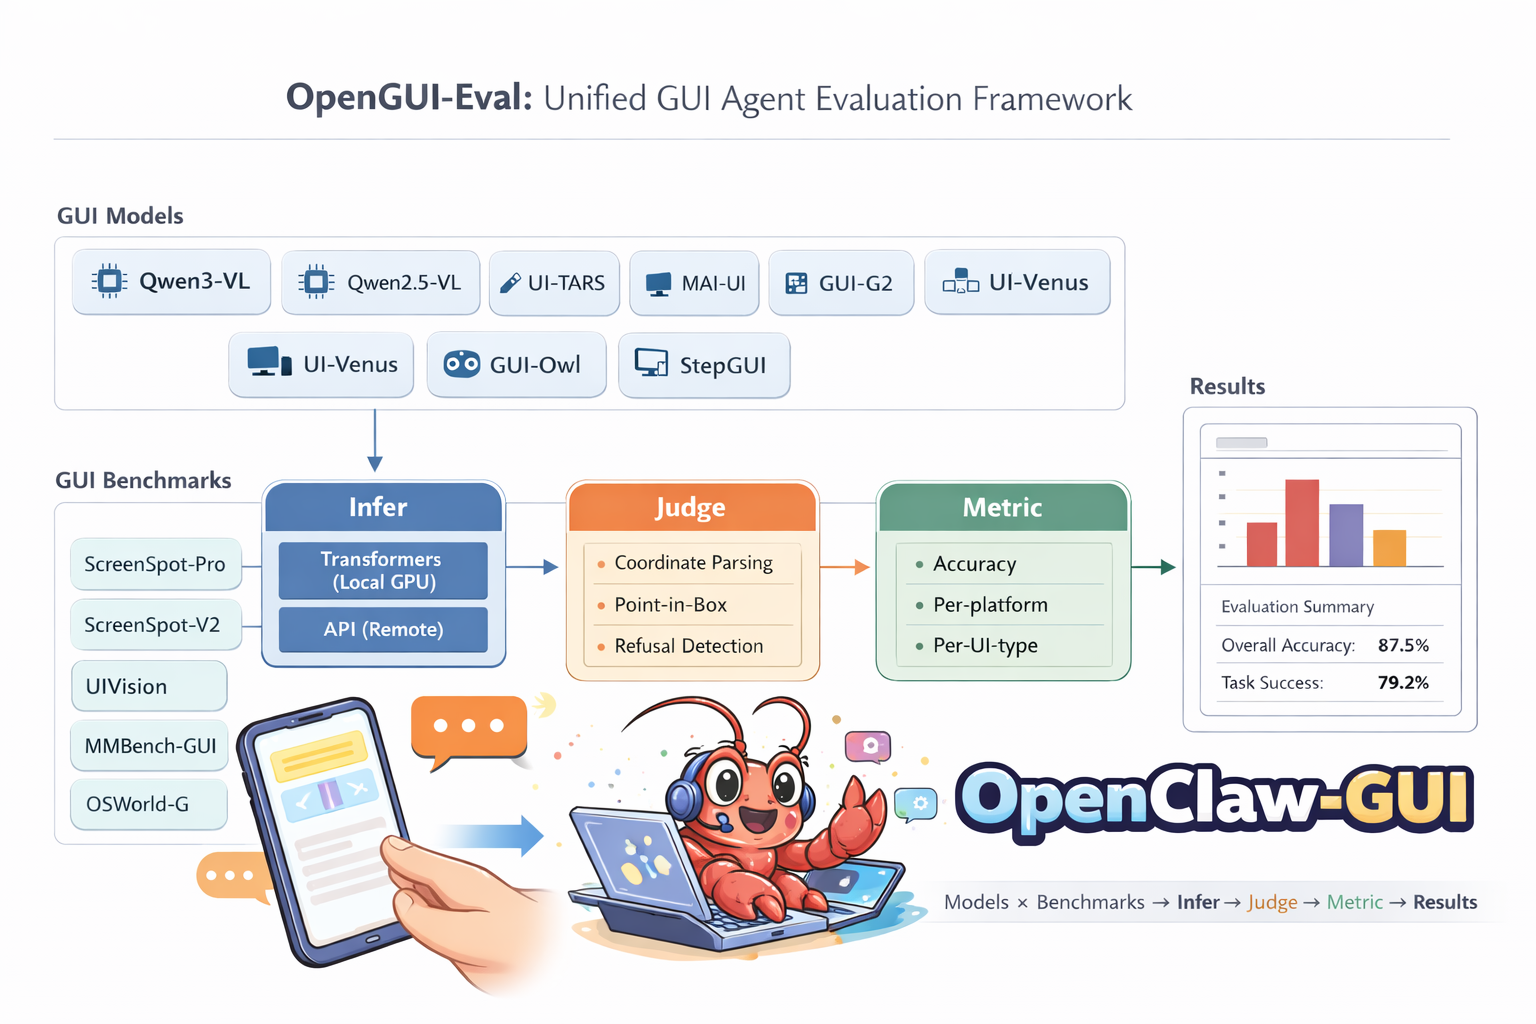
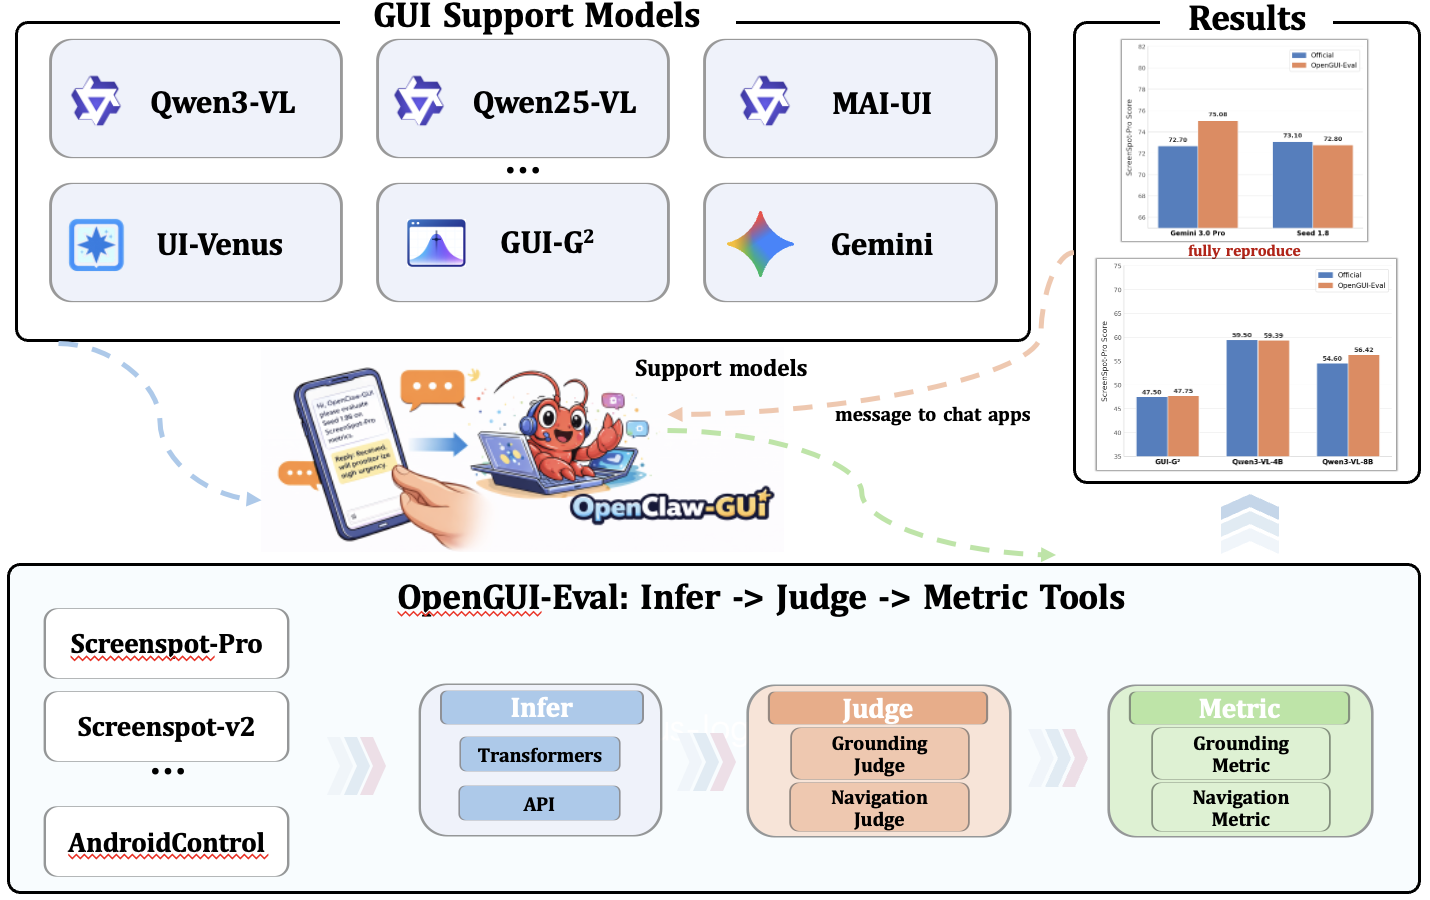
docs(opengui-eval): README Gemini/Seed inferencers, models, repro table; refresh assets
Made-with: Cursor

diff --git a/opengui-eval/README.md b/opengui-eval/README.md
@@ -41,7 +41,7 @@
 ✨ **Key Features:**
 - 🔌 **Dual backend support** — Local GPU via `transformers` or remote API via OpenAI-compatible endpoints
 - 📊 **6 benchmarks** — ScreenSpot-Pro, ScreenSpot-V2, UIVision, MMBench-GUI, OSWorld-G, AndroidControl
-- 🤖 **9+ models** — Qwen3-VL, Qwen2.5-VL, UI-TARS, MAI-UI, GUI-G2, UI-Venus, and more
+- 🤖 **11+ models** — Qwen3-VL, Qwen2.5-VL, UI-TARS, MAI-UI, GUI-G2, UI-Venus, Gemini, Seed 1.8, and more
 - ⚡ **Multi-GPU & multi-thread** — Parallel inference with automatic resume
 - 🧩 **Easily extensible** — Add new models by inheriting a simple base class
 - ✅ **Faithful reproduction** — Comprehensive reproduction results with detailed official vs. reproduced comparisons ([see details](#-reproduction-results))
@@ -147,7 +147,9 @@ opengui-eval/
 │   ├── guig2_inferencer.py              # GUI-G2
 │   ├── uitars_inferencer.py             # UI-TARS (extends Qwen2.5-VL)
 │   ├── uivenus15_inferencer.py          # UI-Venus 1.5 (extends Qwen3-VL)
-│   └── uivenus_inferencer.py            # UI-Venus (extends GUI-G2)
+│   ├── uivenus_inferencer.py            # UI-Venus (extends GUI-G2)
+│   ├── gemini_inferencer.py             # Gemini (API, optional Zoom)
+│   └── seed_inferencer.py               # Seed 1.8 (API, optional Zoom)
 ├── 📂 judge/                            # Judgment module
 │   ├── base_judge.py                    # Abstract base class
 │   ├── grounding_judge.py               # Point-in-box judge (most benchmarks)
@@ -185,10 +187,6 @@ opengui-eval/
 |:---------:|:--------------:|:-------------:|:--------:|:-----------:|:---------:|:--------------:|
 | Status    | ✅              | ✅             | ✅        | ✅           | ✅         | ✅              |
 
-### Models
-
-| Model Key | Model Name | Architecture | Coordinate System | Input Order | System Prompt | ScreenSpot-Pro | ScreenSpot-V2 | UIVision | MMBench-GUI | OSWorld-G | AndroidControl |
-|-----------|-----------|-------------|:-:|:-:|:-:|:-:|:-:|:-:|:-:|:-:|:-:|
 ### Open-Source Models
 
 | Model Key | Model Name | Architecture | Coordinate System | Input Order | System Prompt | ScreenSpot-Pro | ScreenSpot-V2 | UIVision | MMBench-GUI | OSWorld-G | AndroidControl |
@@ -202,6 +200,8 @@ opengui-eval/
 | `guig2` | GUI-G2 | Extends Qwen2.5-VL | `[0, 1000]` | `vt` | ❌ None | ✅ | ✅ | ✅ | ✅ | ✅ | ✅ |
 | `uivenus15` | UI-Venus 1.5 | Extends Qwen3-VL | `[0, 1000]` | `vt` | ❌ None | ✅ | ✅ | ✅ | ✅ | ✅ | ✅ |
 | `uivenus` | UI-Venus | Extends GUI-G2 | `[0, 1000]` | `vt` | ❌ None | ✅ | ✅ | ✅ | ✅ | ✅ | ✅ |
+| `gemini` | Gemini 3.x Pro | API (optional Zoom) | `[0, 1000]` | `vt` | ✅ Built-in | ✅ | - | - | - | - | - |
+| `seed` | Seed 1.8 | API (optional Zoom) | `[0, 1000]` | `vt` | ✅ Built-in | ✅ | - | - | - | - | - |
 
 ### Frontier / Closed-Source Models
 
@@ -209,7 +209,7 @@ We have also reproduced GUI grounding results for frontier models on ScreenSpot-
 
 | Model | Coordinate System | Zoom Paradigm | SS-Pro Official | SS-Pro Ours |
 |-------|:-:|:-:|:-:|:-:|
-| Gemini 3.1 Pro | `[0, 1000]` | ✅ | - | 85.01 |
+| Gemini 3.1 Pro | `[0, 1000]` | ✅ | N/A | 85.01 |
 | Gemini 3.0 Pro | `[0, 1000]` | ✅ | 72.70 | **75.08** ✅ |
 | Seed 1.8 | `[0, 1000]` | ✅ | 73.10 | **72.80** ✅ |
 
@@ -448,12 +448,11 @@ A key goal of OpenGUI-Eval is **faithful reproduction** of officially reported n
 | MAI-UI-2B | 57.40 | **57.94** ✅ | 92.50 | **92.30** ✅ | 30.30 | **29.68** ✅ | 82.60 | **82.80** ✅ | 52.00 | **59.80** ✅ |
 | MAI-UI-8B | 65.80 | 64.07 ❌ | 95.20 | **94.34** ✅ | 40.70 | **40.23** ✅ | 88.80 | **88.81** ✅ | 60.10 | **69.80** ✅ |
 | StepGUI-4B | 60.00 | **59.14** ✅ | 93.60 | 91.98 ❌ | - | 29.90 | 84.00 | **83.03** ✅ | 66.90 | 65.69 ❌ |
+| Gemini 3.0 Pro (Zoom, API) | 72.70 | **75.08** ✅ | - | - | - | - | - | - | - | - |
+| Gemini 3.1 Pro (Zoom, API) | - | **85.01** | - | - | - | - | - | - | - | - |
+| Seed 1.8 (Zoom, API) | 73.10 | **72.80** ✅ | - | - | - | - | - | - | - | - |
 
-**Reproduction Rate (Open-Source, GUI Grounding):** 39 / 44 cells with official baselines = **88.6%**
-
-**Reproduction Rate (Frontier Models, ScreenSpot-Pro):** 2 / 2 cells with official baselines = **100.0%**
-
-**Overall Reproduction Rate:** 41 / 46 = **89.1%**
+**Reproduction Rate (GUI Grounding, cells with official baselines):** Counting open-source rows plus Gemini 3.0 Pro & Seed 1.8 (ScreenSpot-Pro Zoom, API) where official numbers exist — **41 / 46 = 89.1%**
 
 > **Note on ScreenSpot-Pro & OSWorld-G gaps:** Some models show larger deviations on ScreenSpot-Pro (e.g., Qwen3-VL-2B, UI-TARS) and OSWorld-G. This is often due to differences in image preprocessing pipelines or evaluation configurations that are not fully documented in official releases. We are actively investigating and improving these reproductions.
 

diff --git a/opengui-eval/README_zh.md b/opengui-eval/README_zh.md
@@ -41,7 +41,7 @@
 ✨ **核心特性：**
 - 🔌 **双后端支持** — 本地 GPU 推理（`transformers`）或远程 API 调用（OpenAI 兼容接口）
 - 📊 **6 大 Benchmark** — ScreenSpot-Pro、ScreenSpot-V2、UIVision、MMBench-GUI、OSWorld-G、AndroidControl
-- 🤖 **9+ 模型** — Qwen3-VL、Qwen2.5-VL、UI-TARS、MAI-UI、GUI-G2、UI-Venus 等
+- 🤖 **11+ 模型** — Qwen3-VL、Qwen2.5-VL、UI-TARS、MAI-UI、GUI-G2、UI-Venus、Gemini、Seed 1.8 等
 - ⚡ **多 GPU & 多线程** — 并行推理，支持断点续推
 - 🧩 **易于扩展** — 继承基类即可添加新模型
 - ✅ **忠实复现** — 提供详细的官方 vs. 复现结果对比（[查看详情](#-复现结果)）
@@ -147,7 +147,9 @@ opengui-eval/
 │   ├── guig2_inferencer.py              # GUI-G2
 │   ├── uitars_inferencer.py             # UI-TARS（继承 Qwen2.5-VL）
 │   ├── uivenus15_inferencer.py          # UI-Venus 1.5（继承 Qwen3-VL）
-│   └── uivenus_inferencer.py            # UI-Venus（继承 GUI-G2）
+│   ├── uivenus_inferencer.py            # UI-Venus（继承 GUI-G2）
+│   ├── gemini_inferencer.py             # Gemini（API，可选 Zoom）
+│   └── seed_inferencer.py               # Seed 1.8（API，可选 Zoom）
 ├── 📂 judge/                            # 评判模块
 │   ├── base_judge.py                    # 抽象基类
 │   ├── grounding_judge.py               # 点击坐标评判器（大部分 benchmark）
@@ -185,10 +187,6 @@ opengui-eval/
 |:---------:|:--------------:|:-------------:|:--------:|:-----------:|:---------:|:--------------:|
 | 状态       | ✅              | ✅             | ✅        | ✅           | ✅         | ✅              |
 
-### 模型
-
-| 模型 Key | 模型名称 | 架构 | 坐标系统 | 输入顺序 | System Prompt | ScreenSpot-Pro | ScreenSpot-V2 | UIVision | MMBench-GUI | OSWorld-G | AndroidControl |
-|---------|---------|-----|:-:|:-:|:-:|:-:|:-:|:-:|:-:|:-:|:-:|
 ### 开源模型
 
 | 模型 Key | 模型名称 | 架构 | 坐标系统 | 输入顺序 | System Prompt | ScreenSpot-Pro | ScreenSpot-V2 | UIVision | MMBench-GUI | OSWorld-G | AndroidControl |
@@ -202,6 +200,8 @@ opengui-eval/
 | `guig2` | GUI-G2 | 继承 Qwen2.5-VL | `[0, 1000]` | `vt` | ❌ 无 | ✅ | ✅ | ✅ | ✅ | ✅ | ✅ |
 | `uivenus15` | UI-Venus 1.5 | 继承 Qwen3-VL | `[0, 1000]` | `vt` | ❌ 无 | ✅ | ✅ | ✅ | ✅ | ✅ | ✅ |
 | `uivenus` | UI-Venus | 继承 GUI-G2 | `[0, 1000]` | `vt` | ❌ 无 | ✅ | ✅ | ✅ | ✅ | ✅ | ✅ |
+| `gemini` | Gemini 3.x Pro | API（可选 Zoom） | `[0, 1000]` | `vt` | ✅ 内置 | ✅ | - | - | - | - | - |
+| `seed` | Seed 1.8 | API（可选 Zoom） | `[0, 1000]` | `vt` | ✅ 内置 | ✅ | - | - | - | - | - |
 
 ### 前沿 / 闭源模型
 
@@ -209,7 +209,7 @@ opengui-eval/
 
 | 模型 | 坐标系统 | Zoom 范式 | SS-Pro 官方 | SS-Pro 复现 |
 |------|:-:|:-:|:-:|:-:|
-| Gemini 3.1 Pro | `[0, 1000]` | ✅ | - | 85.01 |
+| Gemini 3.1 Pro | `[0, 1000]` | ✅ | 无（N/A） | 85.01 |
 | Gemini 3.0 Pro | `[0, 1000]` | ✅ | 72.70 | **75.08** ✅ |
 | Seed 1.8 | `[0, 1000]` | ✅ | 73.10 | **72.80** ✅ |
 
@@ -448,12 +448,11 @@ OpenGUI-Eval 的核心目标之一是**忠实复现**官方公布的数值。下
 | MAI-UI-2B | 57.40 | **57.94** ✅ | 92.50 | **92.30** ✅ | 30.30 | **29.68** ✅ | 82.60 | **82.80** ✅ | 52.00 | **59.80** ✅ |
 | MAI-UI-8B | 65.80 | 64.07 ❌ | 95.20 | **94.34** ✅ | 40.70 | **40.23** ✅ | 88.80 | **88.81** ✅ | 60.10 | **69.80** ✅ |
 | StepGUI-4B | 60.00 | **59.14** ✅ | 93.60 | 91.98 ❌ | - | 29.90 | 84.00 | **83.03** ✅ | 66.90 | 65.69 ❌ |
+| Gemini 3.0 Pro（Zoom，API） | 72.70 | **75.08** ✅ | - | - | - | - | - | - | - | - |
+| Gemini 3.1 Pro（Zoom，API） | - | **85.01** | - | - | - | - | - | - | - | - |
+| Seed 1.8（Zoom，API） | 73.10 | **72.80** ✅ | - | - | - | - | - | - | - | - |
 
-**开源模型 GUI Grounding 复现率：** 39 / 44 个有官方基准的格子 = **88.6%**
-
-**前沿模型 ScreenSpot-Pro 复现率：** 2 / 2 个有官方基准的格子 = **100.0%**
-
-**总体复现率：** 41 / 46 = **89.1%**
+**GUI Grounding 复现率（含官方基准的格子）：** 统计开源模型行，以及 Gemini 3.0 Pro、Seed 1.8 在 ScreenSpot-Pro（Zoom、API）上与官方可比的指标 — **41 / 46 = 89.1%**
 
 > **关于 ScreenSpot-Pro 和 OSWorld-G 的偏差说明：** 部分模型（如 Qwen3-VL-2B、UI-TARS）在 ScreenSpot-Pro 和 OSWorld-G 上偏差较大，通常是由于官方未完整披露的图像预处理流程或评测配置差异所致。我们正在积极排查并改进。
 
